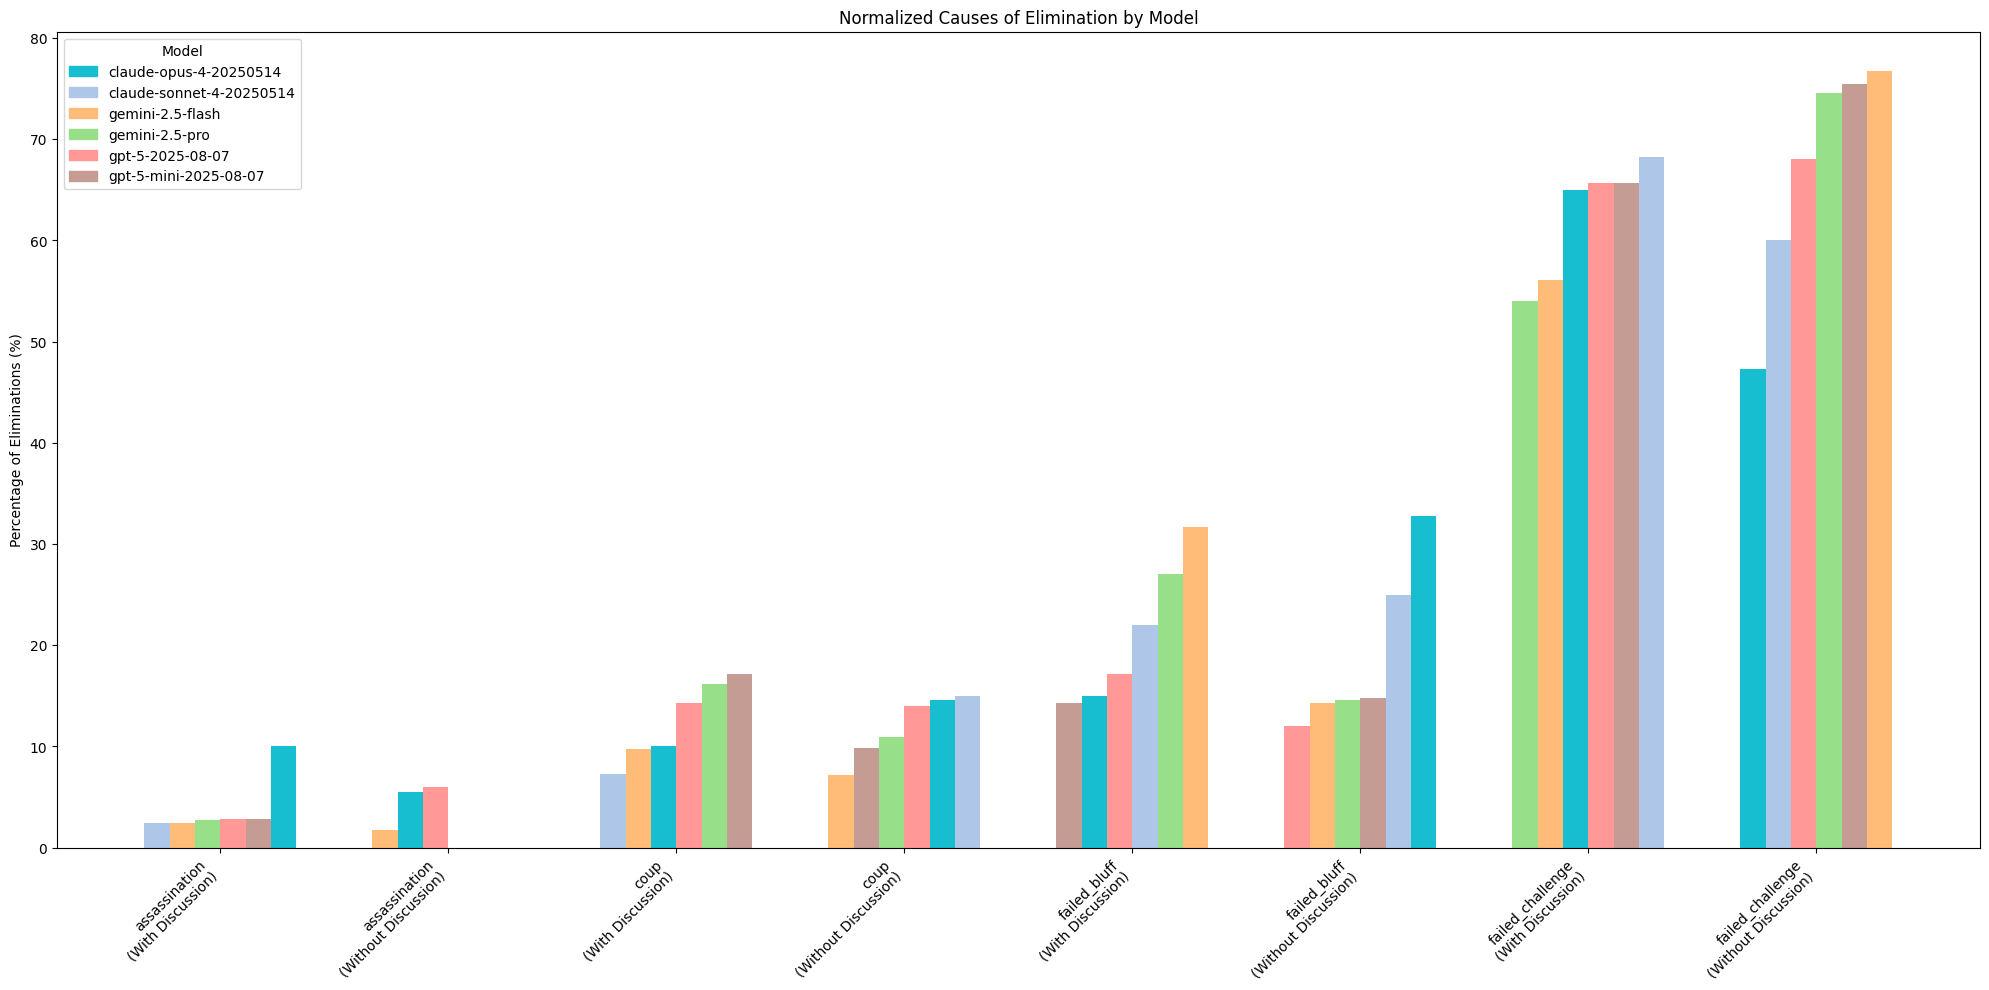
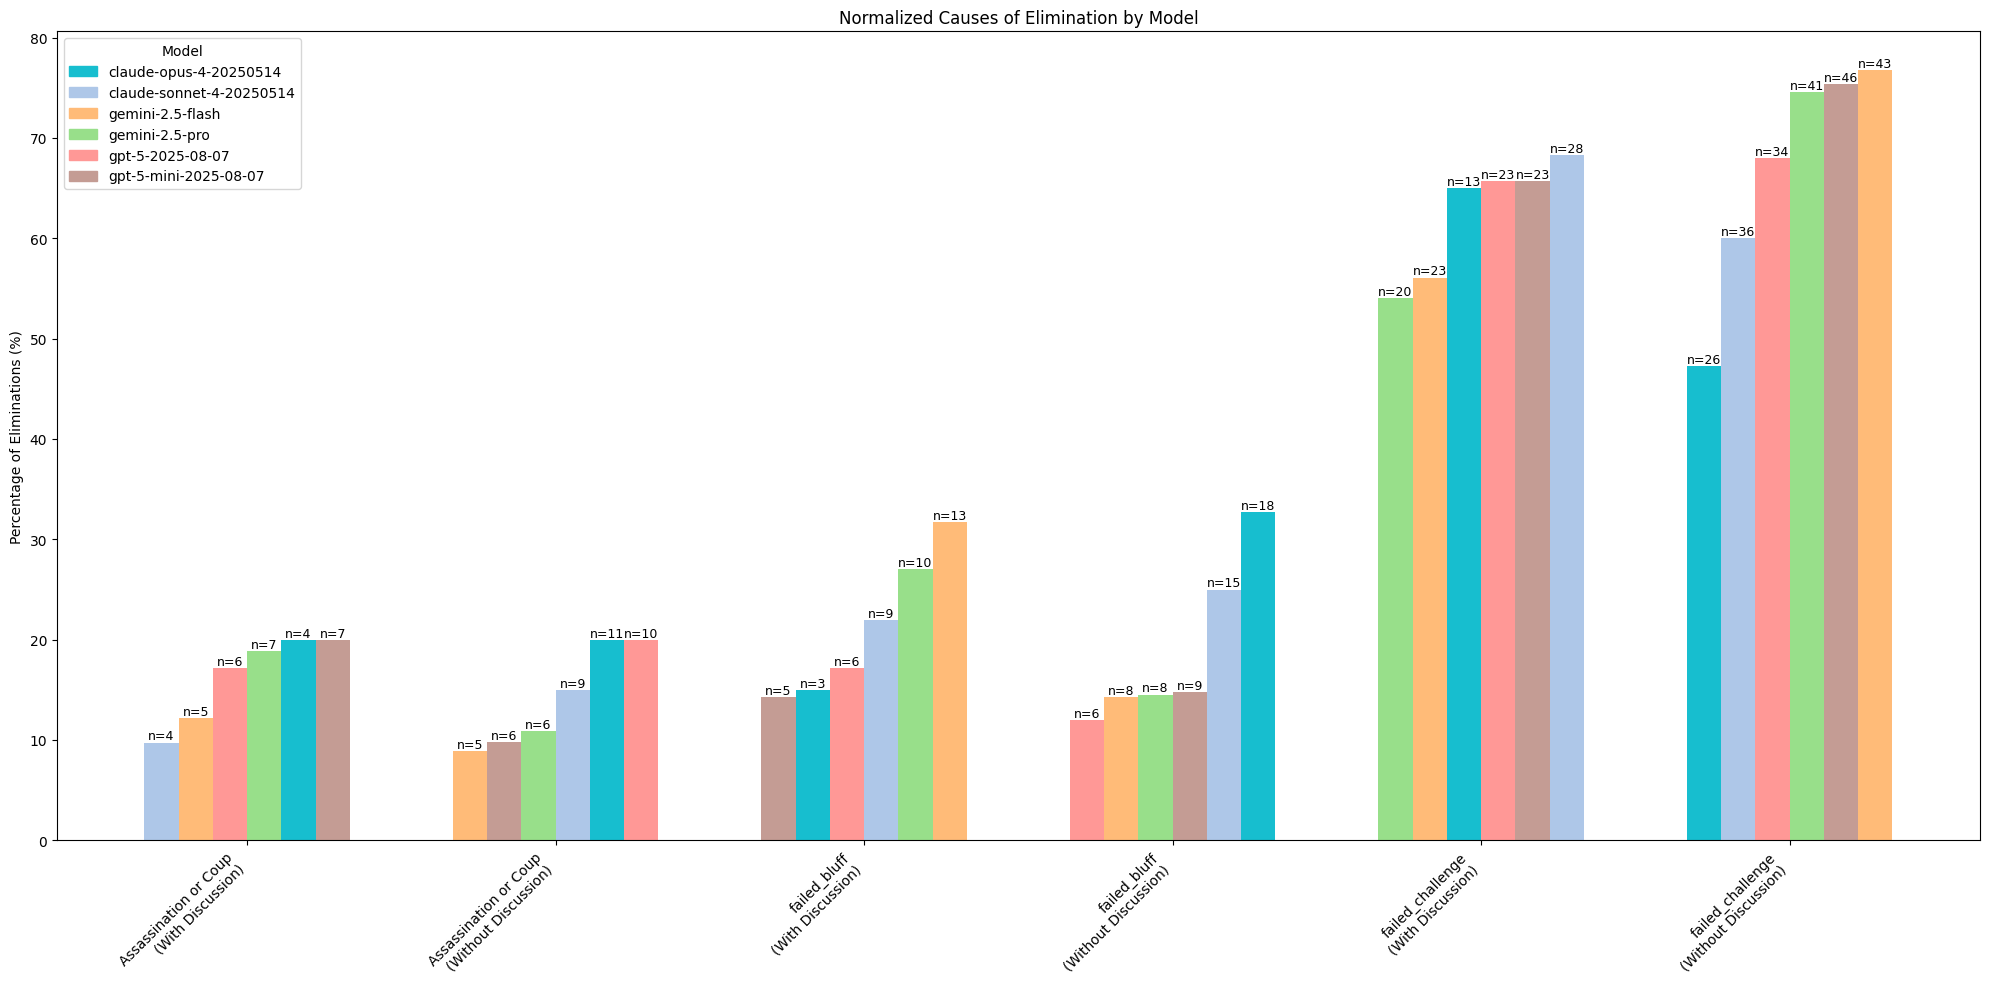
update charts and analysis for better explainability

diff --git a/analysis/main.py b/analysis/main.py
@@ -179,6 +179,10 @@ def run_analysis(df, output_dir, analysis_type):
     elimination_causes = df[df['cause_of_elimination'].notna()].copy()
     elimination_causes['cause_of_elimination'] = elimination_causes['cause_of_elimination'].str.split(';')
     elimination_causes = elimination_causes.explode('cause_of_elimination')
+    
+    # Merge Assassinated and Couped
+    elimination_causes['cause_of_elimination'] = elimination_causes['cause_of_elimination'].replace(['assassination', 'coup'], 'Assassination or Coup')
+    
     elimination_causes_stats = elimination_causes.groupby(['model', 'public_discussion', 'cause_of_elimination']).size().reset_index(name='count')
 
     # Normalize by the number of eliminations per model
@@ -201,7 +205,7 @@ def run_analysis(df, output_dir, analysis_type):
         for discussion in discussion_types:
             x_tick_labels.append(f"{cause}\n({discussion})")
 
-    fig, ax = plt.subplots(figsize=(20, 10))
+    fig, ax = plt.subplots(figsize=(20, 10)) 
     
     bar_width = 0.8 / len(models)
     
@@ -223,8 +227,14 @@ def run_analysis(df, output_dir, analysis_type):
             bar_positions = [x_pos + i * bar_width for i in range(len(group_data))]
             
             # Plot bars
-            ax.bar(bar_positions, group_data['percentage'], width=bar_width, color=[color_map[m] for m in group_data['model']])
+            bars = ax.bar(bar_positions, group_data['percentage'], width=bar_width, color=[color_map[m] for m in group_data['model']])
             
+            # Add counts on top of the bars
+            for bar, count in zip(bars, group_data['count']):
+                if not np.isnan(count):
+                    ax.text(bar.get_x() + bar.get_width() / 2, bar.get_height(), f'n={int(count)}',
+                            ha='center', va='bottom', fontsize=9)
+
             # Store center of group for x-tick
             group_center = x_pos + (len(models) - 1) * bar_width / 2
             x_ticks.append(group_center)
@@ -251,84 +261,78 @@ def run_analysis(df, output_dir, analysis_type):
     logging.info("Calculating Deception Effectiveness...")
     df['game_duration'] = df.groupby('game_id')['elimination_round'].transform('max')
     df['rounds_survived'] = np.where(df['winner'], df['game_duration'], df['elimination_round'])
-    df['bluffs_per_round'] = np.divide(df['num_bluffs'], df['rounds_survived'])
-    df['bluffs_per_round'] = df['bluffs_per_round'].replace([np.inf, -np.inf], 0)
     df['bluffing_success_rate'] = df['successful_bluffs'] / (df['successful_bluffs'] + df['failed_bluffs'])
     bluffing_analysis = df.groupby(['model', 'public_discussion']).agg(
         bluffing_success_rate=('bluffing_success_rate', 'mean'),
-        bluffing_frequency=('num_bluffs', 'mean'),
-        bluffs_per_round=('bluffs_per_round', 'mean')
+        bluffing_frequency=('num_bluffs', 'mean')
     ).reset_index().fillna(0)
 
-    metrics = ['bluffing_success_rate', 'bluffing_frequency', 'bluffs_per_round']
     discussion_map = {True: 'With Discussion', False: 'Without Discussion'}
     bluffing_analysis['discussion'] = bluffing_analysis['public_discussion'].map(discussion_map)
-
-    # Create a combined metric for plotting
-    bluffing_analysis_melted = bluffing_analysis.melt(
-        id_vars=['model', 'discussion'],
-        value_vars=metrics,
-        var_name='metric',
-        value_name='value'
-    )
     
-    # Get unique models and assign colors
-    models = sorted(bluffing_analysis_melted['model'].unique())
+    models = sorted(bluffing_analysis['model'].unique())
     color_map = get_color_map(models)
-
-    # Create a list of combined metrics for the x-axis
-    metric_labels = {
-        'bluffing_success_rate': 'Bluffing Success Rate',
-        'bluffing_frequency': 'Bluffing Frequency',
-        'bluffs_per_round': 'Bluffs per Round'
-    }
     discussion_types = ['With Discussion', 'Without Discussion']
-    
-    x_tick_labels = []
-    for metric in metrics:
-        for discussion in discussion_types:
-            x_tick_labels.append(f"{metric_labels[metric]}\n({discussion})")
 
-    fig, ax = plt.subplots(figsize=(20, 10))
+    fig, (ax1, ax2) = plt.subplots(1, 2, figsize=(24, 10))
+    fig.suptitle('Deception Behavior', fontsize=16)
+
+    # --- Plot 1: Bluffing Success Rate ---
+    metric1 = 'bluffing_success_rate'
+    ax1.set_title('Bluffing Success Rate')
+    ax1.set_ylabel('Success Rate')
     
     bar_width = 0.8 / len(models)
-    
     x_pos = 0
     x_ticks = []
+    x_tick_labels = []
 
-    for metric in metrics:
-        for discussion in discussion_types:
-            # Filter data for the current metric and discussion type
-            group_data = bluffing_analysis_melted[
-                (bluffing_analysis_melted['metric'] == metric) &
-                (bluffing_analysis_melted['discussion'] == discussion)
-            ]
-            
-            # Sort models by value for this group
-            group_data = group_data.sort_values('value', ascending=True)
-            
-            # Calculate bar positions for this group
-            bar_positions = [x_pos + i * bar_width for i in range(len(group_data))]
-            
-            # Plot bars
-            ax.bar(bar_positions, group_data['value'], width=bar_width, color=[color_map[m] for m in group_data['model']])
-            
-            # Store center of group for x-tick
-            x_ticks.append(x_pos + (len(group_data) - 1) * bar_width / 2)
-            
-            # Move to the next group position
-            x_pos += len(models) * bar_width + 0.4 # Add gap between groups
+    for discussion in discussion_types:
+        group_data = bluffing_analysis[bluffing_analysis['discussion'] == discussion]
+        group_data = group_data.sort_values(metric1, ascending=True)
+        
+        bar_positions = [x_pos + i * bar_width for i in range(len(group_data))]
+        ax1.bar(bar_positions, group_data[metric1], width=bar_width, color=[color_map[m] for m in group_data['model']])
+        
+        group_center = x_pos + (len(models) - 1) * bar_width / 2
+        x_ticks.append(group_center)
+        x_tick_labels.append(discussion)
+        
+        x_pos += len(models) * bar_width + 0.4
+        
+    ax1.set_xticks(x_ticks)
+    ax1.set_xticklabels(x_tick_labels, rotation=0, ha="center")
 
-    ax.set_ylabel('Value')
-    ax.set_title('Deception Behavior')
-    ax.set_xticks(x_ticks)
-    ax.set_xticklabels(x_tick_labels, rotation=45, ha="right")
-    
-    # Create custom legend
+    # --- Plot 2: Bluffing Frequency ---
+    metric2 = 'bluffing_frequency'
+    ax2.set_title('Bluffing Frequency')
+    ax2.set_ylabel('Average Bluffs per Game')
+
+    x_pos = 0
+    x_ticks = []
+    x_tick_labels = []
+
+    for discussion in discussion_types:
+        group_data = bluffing_analysis[bluffing_analysis['discussion'] == discussion]
+        group_data = group_data.sort_values(metric2, ascending=True)
+        
+        bar_positions = [x_pos + i * bar_width for i in range(len(group_data))]
+        ax2.bar(bar_positions, group_data[metric2], width=bar_width, color=[color_map[m] for m in group_data['model']])
+        
+        group_center = x_pos + (len(models) - 1) * bar_width / 2
+        x_ticks.append(group_center)
+        x_tick_labels.append(discussion)
+        
+        x_pos += len(models) * bar_width + 0.4
+
+    ax2.set_xticks(x_ticks)
+    ax2.set_xticklabels(x_tick_labels, rotation=0, ha="center")
+
+    # --- Legend and Layout ---
     legend_handles = [plt.Rectangle((0,0),1,1, color=color_map[model]) for model in models]
-    ax.legend(legend_handles, models, title='Model', loc='best')
+    fig.legend(legend_handles, models, title='Model', loc='upper right', bbox_to_anchor=(0.99, 0.95))
     
-    fig.tight_layout()
+    fig.tight_layout(rect=[0, 0.03, 1, 0.95])
     
     plot_path = os.path.join(output_dir, "deception_behavior.png")
     save_plot(fig, plot_path)
@@ -424,16 +428,14 @@ def run_analysis(df, output_dir, analysis_type):
     aggression_stats = df.groupby(['model', 'public_discussion']).agg(
         attacks_launched=('attacks_launched', 'sum'),
         attacks_received=('attacks_received', 'sum'),
-        coups_launched=('coups_launched', 'sum'),
         total_rounds=('rounds_survived', 'sum')
     ).reset_index()
 
     # Normalize by the number of rounds
     aggression_stats['attacks_launched_per_round'] = np.divide(aggression_stats['attacks_launched'], aggression_stats['total_rounds'])
     aggression_stats['attacks_received_per_round'] = np.divide(aggression_stats['attacks_received'], aggression_stats['total_rounds'])
-    aggression_stats['coups_launched_per_round'] = np.divide(aggression_stats['coups_launched'], aggression_stats['total_rounds'])
     
-    metrics = ['attacks_launched_per_round', 'attacks_received_per_round', 'coups_launched_per_round']
+    metrics = ['attacks_launched_per_round', 'attacks_received_per_round']
     
     aggression_stats_melted = aggression_stats.melt(id_vars=['model', 'public_discussion'],
                                                       value_vars=metrics,
@@ -447,8 +449,7 @@ def run_analysis(df, output_dir, analysis_type):
 
     metric_labels = {
         'attacks_launched_per_round': 'Attacks Launched per Round',
-        'attacks_received_per_round': 'Attacks Received per Round',
-        'coups_launched_per_round': 'Coups Launched per Round'
+        'attacks_received_per_round': 'Attacks Received per Round'
     }
     discussion_types = ['With Discussion', 'Without Discussion']
     
